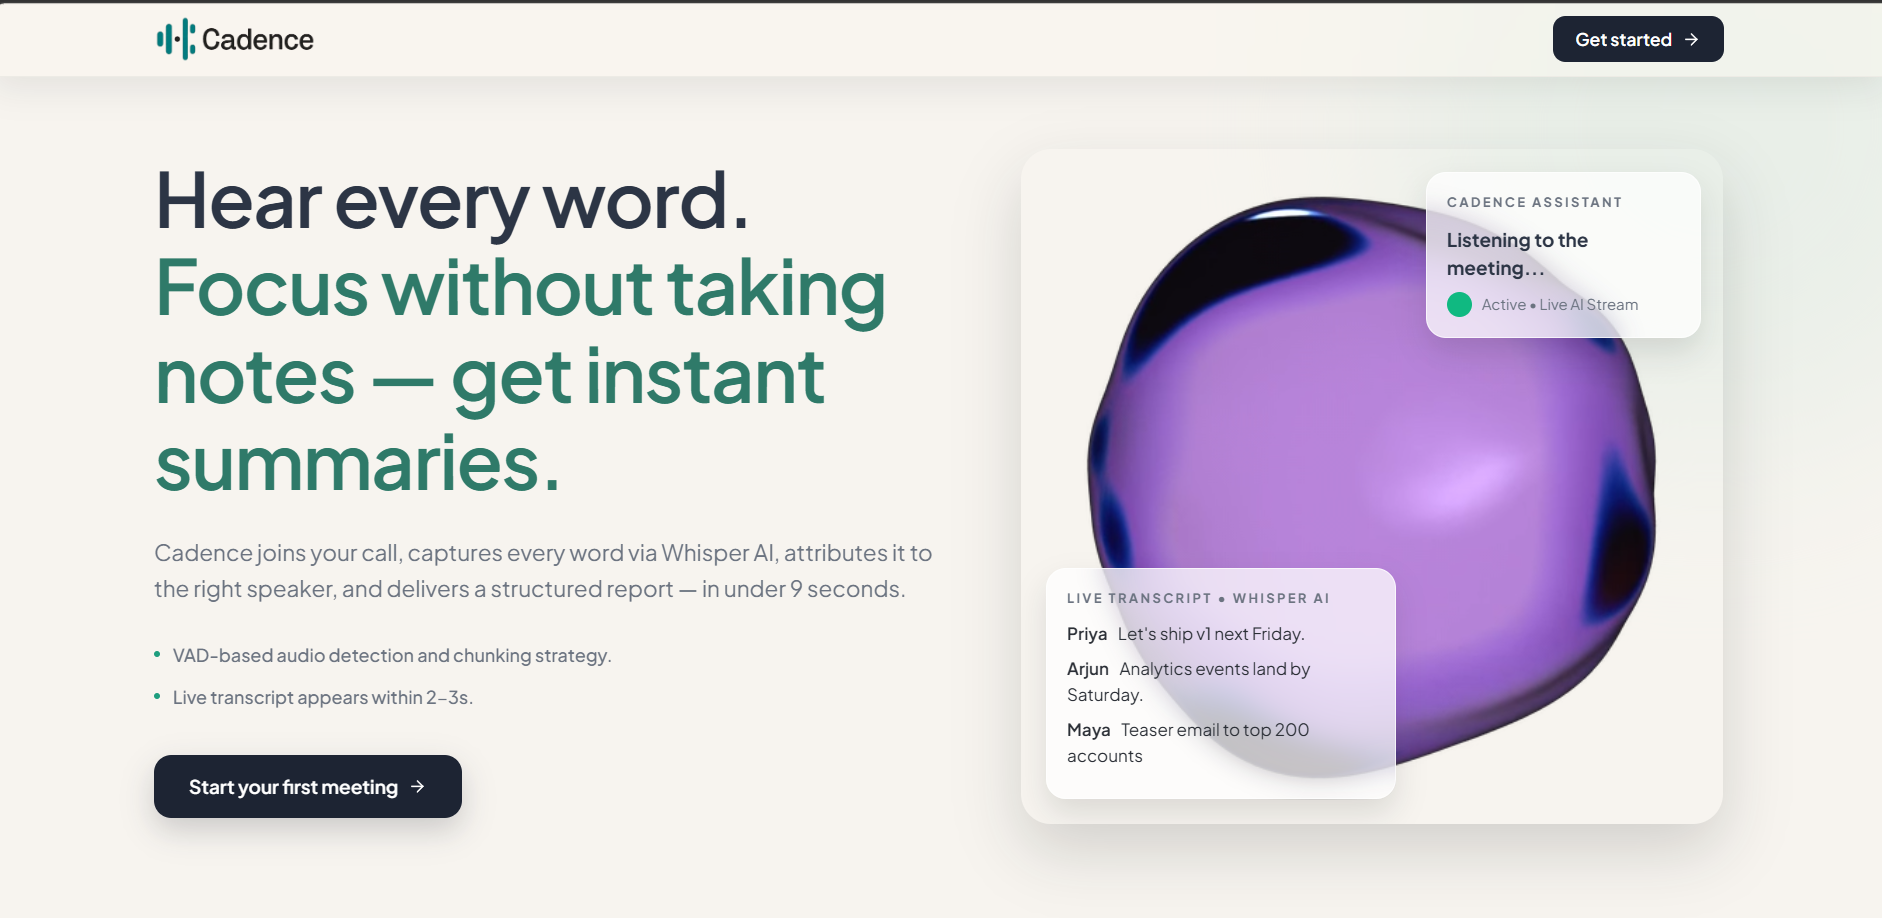
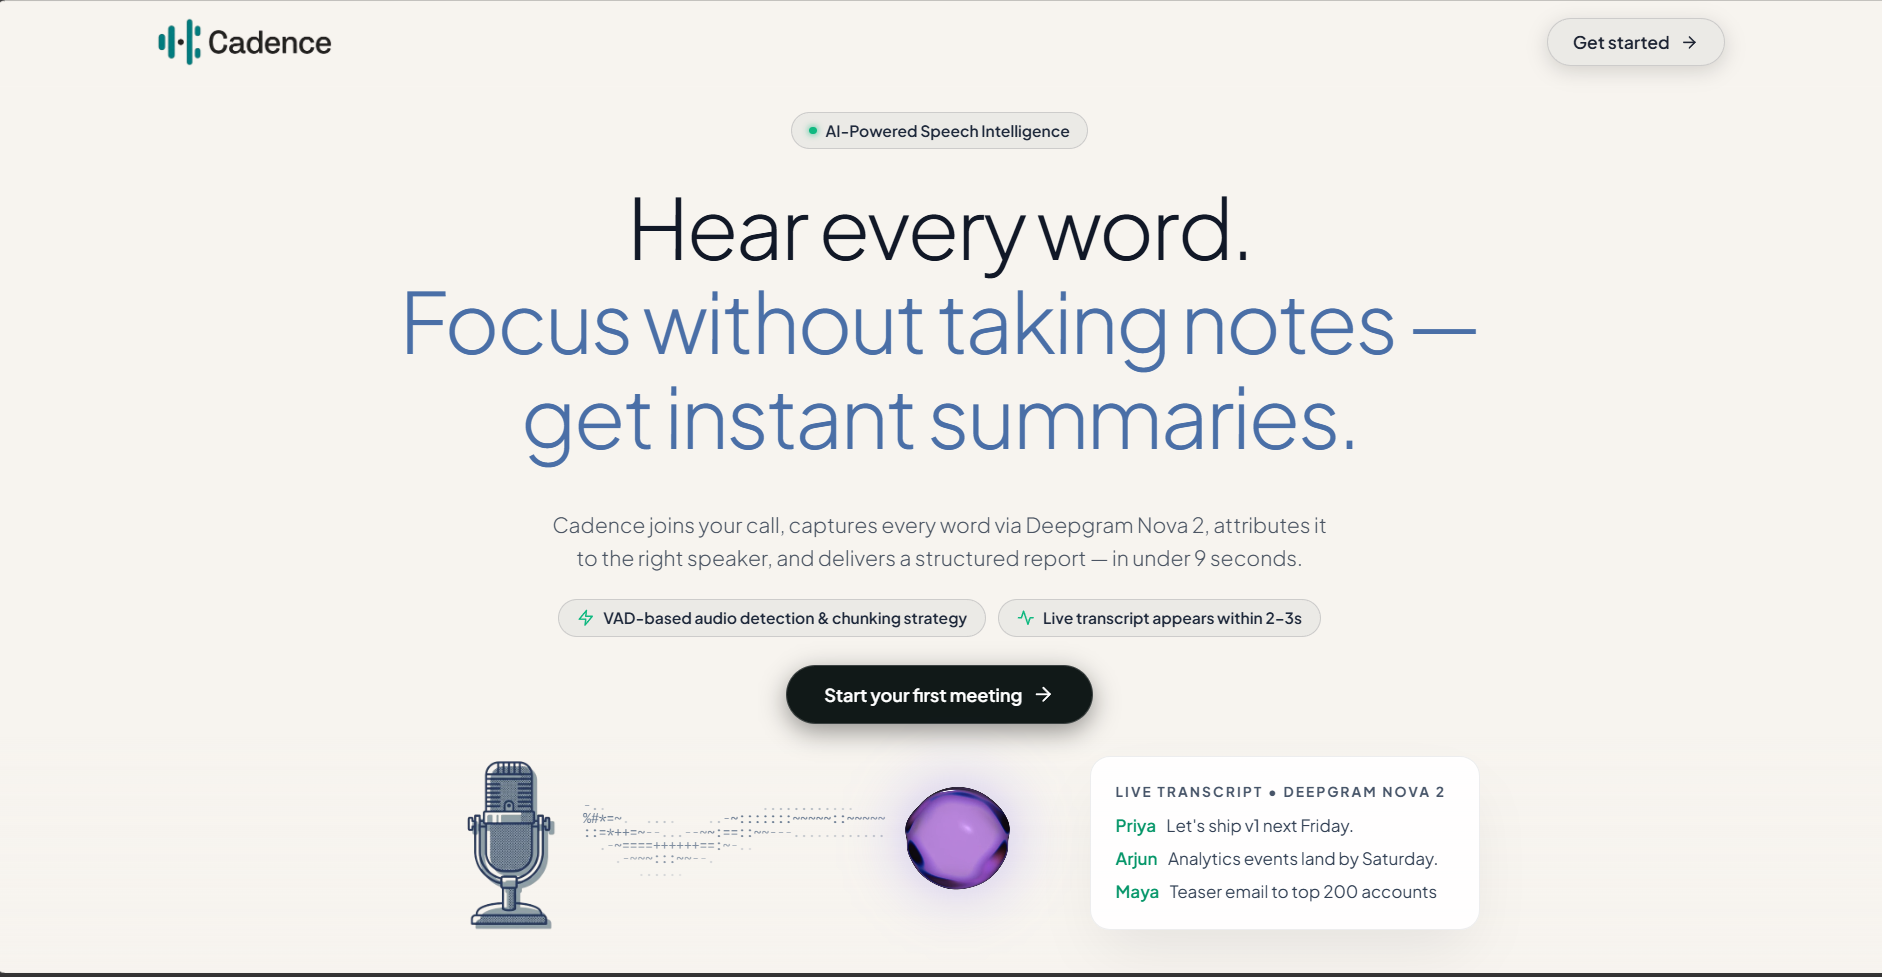
feat(ui): enhance portfolio metrics, navigation, and mobile responsiveness
- Increase metrics section size with larger red values and smaller beige labels
- Add smooth scroll from "LET'S TALK" button to contact form
- Standardize button fonts and sizes for better visual hierarchy
- Fix mobile viewport consistency (hero padding, icon sizes, image scaling)
- Add animated red underlines to section titles with one-time scroll animation
- Reduce gaps between metric elements for tighter visual alignment

diff --git a/landing_page/app/page.tsx b/landing_page/app/page.tsx
@@ -653,16 +653,16 @@ export default function Home() {
           <div className="absolute bottom-0 left-0 right-0 h-40 bg-gradient-to-t from-[#0a0a0a] to-transparent pointer-events-none z-10" />
 
           {/* Hero Content Container */}
-          <div className="w-full max-w-full mx-auto px-8 md:px-20 lg:px-28 grid grid-cols-1 md:grid-cols-12 gap-8 md:gap-24 items-center relative z-10 h-full">
+          <div className="w-full max-w-full mx-auto px-6 sm:px-8 md:px-20 lg:px-28 grid grid-cols-1 md:grid-cols-12 gap-8 md:gap-24 items-center relative z-10 h-full">
             {/* Left Column: Text Content */}
-            <div className="md:col-span-8 flex flex-col items-start text-left gap-6 w-full md:pl-10">
+            <div className="md:col-span-8 flex flex-col items-start text-left gap-6 w-full">
               {/* Greeting + Name */}
               <div className="flex flex-col gap-2 items-start select-none">
-                <span className="text-[18px] sm:text-[22px] md:text-[24px] text-zinc-400 font-sans font-medium tracking-widest uppercase">
+                <span className="text-[16px] sm:text-[20px] md:text-[24px] text-zinc-400 font-sans font-medium tracking-widest uppercase">
                   HI, I'M
                 </span>
                 <h1
-                  className="text-[38px] xs:text-[48px] sm:text-[68px] md:text-[80px] leading-tight text-[#D9D3C7] tracking-wider uppercase font-bold pr-4 md:pr-0"
+                  className="text-[36px] sm:text-[52px] md:text-[80px] leading-tight text-[#D9D3C7] tracking-wider uppercase font-bold"
                   style={{ fontFamily: '"BBH Bartle", "Bebas Neue", sans-serif' }}
                 >
                   Priyank
@@ -700,14 +700,14 @@ export default function Home() {
                 everything together.
               </p>
 
-              <div className="flex flex-row flex-wrap gap-4 mt-6 relative z-10 justify-start w-full">
+              <div className="flex flex-row flex-wrap gap-3 sm:gap-4 mt-4 sm:mt-6 relative z-10 justify-start w-full">
                 {/* GitHub */}
                 <a
                   href="https://github.com/Priyankm23"
                   target="_blank"
                   rel="noreferrer"
                   title="GitHub"
-                  className="w-14 h-14 border border-1px border-[#D9D3C7] bg-transparent text-[#D9D3C7] flex items-center justify-center transition-all duration-150 cursor-pointer shadow-[3px_3px_0px_0px_rgba(217,211,199,1)] hover:shadow-none hover:translate-x-[3px] hover:translate-y-[3px] hover:bg-[#D9D3C7] hover:text-[#1B1C1C]"
+                  className="w-12 h-12 sm:w-14 sm:h-14 border border-1px border-[#D9D3C7] bg-transparent text-[#D9D3C7] flex items-center justify-center transition-all duration-150 cursor-pointer shadow-[3px_3px_0px_0px_rgba(217,211,199,1)] hover:shadow-none hover:translate-x-[3px] hover:translate-y-[3px] hover:bg-[#D9D3C7] hover:text-[#1B1C1C]"
                 >
                   <svg viewBox="0 0 24 24" fill="currentColor" className="w-6 h-6">
                     <path d="M12 2C6.477 2 2 6.484 2 12.017c0 4.425 2.865 8.18 6.839 9.504.5.092.682-.217.682-.483 0-.237-.008-.868-.013-1.703-2.782.605-3.369-1.343-3.369-1.343-.454-1.158-1.11-1.466-1.11-1.466-.908-.62.069-.608.069-.608 1.003.07 1.531 1.032 1.531 1.032.892 1.53 2.341 1.088 2.91.832.092-.647.35-1.088.636-1.338-2.22-.253-4.555-1.113-4.555-4.951 0-1.093.39-1.988 1.029-2.688-.103-.253-.446-1.272.098-2.65 0 0 .84-.27 2.75 1.026A9.564 9.564 0 0112 6.844c.85.004 1.705.115 2.504.337 1.909-1.296 2.747-1.027 2.747-1.027.546 1.379.202 2.398.1 2.651.64.7 1.028 1.595 1.028 2.688 0 3.848-2.339 4.695-4.566 4.943.359.309.678.92.678 1.855 0 1.338-.012 2.419-.012 2.747 0 .268.18.58.688.482A10.019 10.019 0 0022 12.017C22 6.484 17.522 2 12 2z" />
@@ -719,7 +719,7 @@ export default function Home() {
                   target="_blank"
                   rel="noreferrer"
                   title="LinkedIn"
-                  className="w-14 h-14 border border-1px border-[#D9D3C7] bg-transparent text-[#D9D3C7] flex items-center justify-center transition-all duration-150 cursor-pointer shadow-[3px_3px_0px_0px_rgba(217,211,199,1)] hover:shadow-none hover:translate-x-[3px] hover:translate-y-[3px] hover:bg-[#D9D3C7] hover:text-[#1B1C1C]"
+                  className="w-12 h-12 sm:w-14 sm:h-14 border border-1px border-[#D9D3C7] bg-transparent text-[#D9D3C7] flex items-center justify-center transition-all duration-150 cursor-pointer shadow-[3px_3px_0px_0px_rgba(217,211,199,1)] hover:shadow-none hover:translate-x-[3px] hover:translate-y-[3px] hover:bg-[#D9D3C7] hover:text-[#1B1C1C]"
                 >
                   <svg viewBox="0 0 24 24" fill="currentColor" className="w-6 h-6">
                     <path d="M20.447 20.452h-3.554v-5.569c0-1.328-.027-3.037-1.852-3.037-1.853 0-2.136 1.445-2.136 2.939v5.667H9.351V9h3.414v1.561h.046c.477-.9 1.637-1.85 3.37-1.85 3.601 0 4.267 2.37 4.267 5.455v6.286zM5.337 7.433a2.062 2.062 0 01-2.063-2.065 2.064 2.064 0 112.063 2.065zm1.782 13.019H3.555V9h3.564v11.452zM22.225 0H1.771C.792 0 0 .774 0 1.729v20.542C0 23.227.792 24 1.771 24h20.451C23.2 24 24 23.227 24 22.271V1.729C24 .774 23.2 0 22.222 0h.003z" />
@@ -729,7 +729,7 @@ export default function Home() {
                 <a
                   href="mailto:priyankmoradiya41@gmail.com"
                   title="Email"
-                  className="w-14 h-14 border border-1px border-[#D9D3C7] bg-transparent text-[#D9D3C7] flex items-center justify-center transition-all duration-150 cursor-pointer shadow-[3px_3px_0px_0px_rgba(217,211,199,1)] hover:shadow-none hover:translate-x-[3px] hover:translate-y-[3px] hover:bg-[#D9D3C7] hover:text-[#1B1C1C]"
+                  className="w-12 h-12 sm:w-14 sm:h-14 border border-1px border-[#D9D3C7] bg-transparent text-[#D9D3C7] flex items-center justify-center transition-all duration-150 cursor-pointer shadow-[3px_3px_0px_0px_rgba(217,211,199,1)] hover:shadow-none hover:translate-x-[3px] hover:translate-y-[3px] hover:bg-[#D9D3C7] hover:text-[#1B1C1C]"
                 >
                   <svg viewBox="0 0 24 24" fill="none" stroke="currentColor" strokeWidth="2" className="w-6 h-6">
                     <rect x="2" y="4" width="20" height="16" rx="2" />
@@ -742,7 +742,7 @@ export default function Home() {
                   target="_blank"
                   rel="noreferrer"
                   title="Download Resume"
-                  className="h-14 px-5 border border-1px border-[#D9D3C7] bg-transparent text-[#b02600] flex items-center gap-2 font-mono-code font-extrabold text-[13px] sm:text-[14px] uppercase tracking-wider transition-all duration-150 cursor-pointer shadow-[3px_3px_0px_0px_rgba(217,211,199,1)] hover:shadow-none hover:translate-x-[3px] hover:translate-y-[3px] hover:bg-[#b02600] hover:text-white hover:border-[#b02600]"
+                  className="h-12 sm:h-14 px-4 sm:px-5 border border-1px border-[#D9D3C7] bg-transparent text-[#b02600] flex items-center gap-2 font-mono-code font-extrabold text-[12px] sm:text-[14px] uppercase tracking-wider transition-all duration-150 cursor-pointer shadow-[3px_3px_0px_0px_rgba(217,211,199,1)] hover:shadow-none hover:translate-x-[3px] hover:translate-y-[3px] hover:bg-[#b02600] hover:text-white hover:border-[#b02600]"
                 >
                   <svg viewBox="0 0 24 24" fill="none" stroke="currentColor" strokeWidth="2.5" className="w-5 h-5">
                     <path d="M21 15v4a2 2 0 0 1-2 2H5a2 2 0 0 1-2-2v-4" />
@@ -756,7 +756,7 @@ export default function Home() {
 
             {/* Right Column: Hero Portrait Image */}
             <div className="md:col-span-4 flex justify-center md:justify-center items-center relative z-10 w-full mt-6 md:mt-0 animate-reveal">
-              <div className="relative w-full max-w-[300px] sm:max-w-[340px] md:max-w-[390px] lg:max-w-[440px] aspect-[4/5] overflow-hidden shadow-[5px_5px_0px_0px_rgba(217,211,199,0.15)] bg-[#0a0a0a] md:-translate-x-6">
+              <div className="relative w-full max-w-[260px] sm:max-w-[300px] md:max-w-[390px] lg:max-w-[440px] aspect-[4/5] overflow-hidden shadow-[5px_5px_0px_0px_rgba(217,211,199,0.15)] bg-[#0a0a0a] md:-translate-x-6">
                 <img
                   src="/full_portrait1.png"
                   alt="Priyank Moradiya - Hero Portrait"
@@ -796,7 +796,16 @@ export default function Home() {
 
           <div className="max-w-7xl mx-auto w-full relative z-10 mt-6">
             <h2 className="font-sans text-3xl sm:text-4xl md:text-5xl lg:text-[54px] !leading-[110%] font-bold text-zinc-100 uppercase tracking-wide relative z-10">
-              FEATURED BUILDS
+              <span className="relative inline-block">
+                FEATURED BUILDS
+                <motion.span
+                  className="absolute left-[-4px] -bottom-1 h-[3px] bg-[#b02600]"
+                  initial={{ width: 0 }}
+                  whileInView={{ width: "calc(100% + 8px)" }}
+                  viewport={{ once: true }}
+                  transition={{ duration: 0.8, ease: [0.25, 0.46, 0.45, 0.94], delay: 0.2 }}
+                />
+              </span>
             </h2>
             <div className="h-px w-full bg-[#222222] my-4 relative z-10"></div>
             <p className="font-sans text-[#D9D3C7]/80 text-sm sm:text-base leading-relaxed max-w-xl mb-12 relative z-10">
@@ -835,8 +844,17 @@ export default function Home() {
         >
           <div className="max-w-7xl mx-auto w-full relative z-10">
             <div className="relative z-10 mt-10">
-              <h2 className="font-sans text-3xl sm:text-4xl md:text-5xl lg:text-[54px] !leading-[110%] font-bold text-zinc-100 uppercase tracking-wide">
-                TOOLS I TRUST
+              <h2 className="font-sans text-3xl sm:text-4xl md:text-5xl lg:text-[54px] !leading-[110%] font-bold text-zinc-100 uppercase tracking-wide relative">
+                <span className="relative inline-block">
+                  TOOLS I TRUST
+                  <motion.span
+                    className="absolute left-[-4px] -bottom-1 h-[3px] bg-[#b02600]"
+                    initial={{ width: 0 }}
+                    whileInView={{ width: "calc(100% + 8px)" }}
+                    viewport={{ once: true }}
+                    transition={{ duration: 0.8, ease: [0.25, 0.46, 0.45, 0.94], delay: 0.2 }}
+                  />
+                </span>
               </h2>
               <div className="h-px w-full bg-[#222222] my-4"></div>
               <p className="font-sans text-[#D9D3C7]/80 text-sm sm:text-base leading-relaxed max-w-xl mb-12">
@@ -930,9 +948,18 @@ export default function Home() {
             <div className="relative z-10 flex flex-col md:grid md:grid-cols-12 gap-gutter mt-16">
               {/* Heading Area */}
               <div className="scroll-reveal-left md:col-span-3 mb-8 md:mb-0">
-                <h2 className="font-sans text-3xl sm:text-4xl md:text-5xl lg:text-[54px] !leading-[110%] font-bold text-zinc-100 uppercase tracking-wide flex items-center drop-shadow-sm">
-                  COMMIT HISTORY
-                  <span className="text-primary ml-1 blink">_</span>
+                <h2 className="font-sans text-3xl sm:text-4xl md:text-5xl lg:text-[54px] !leading-[110%] font-bold text-zinc-100 uppercase tracking-wide flex items-center drop-shadow-sm relative">
+                  <span className="relative inline-block">
+                    COMMIT HISTORY
+                    <span className="text-primary ml-1 blink">_</span>
+                    <motion.span
+                      className="absolute left-[-4px] -bottom-1 h-[3px] bg-[#b02600]"
+                      initial={{ width: 0 }}
+                      whileInView={{ width: "calc(100% + 8px)" }}
+                      viewport={{ once: true }}
+                      transition={{ duration: 0.8, ease: [0.25, 0.46, 0.45, 0.94], delay: 0.2 }}
+                    />
+                  </span>
                 </h2>
                 <div className="h-px w-full bg-white/30 my-4"></div>
                 <p className="font-sans text-[#D9D3C7]/80 text-sm sm:text-base leading-relaxed max-w-sm">
@@ -1105,8 +1132,17 @@ export default function Home() {
             <div className="grid grid-cols-1 md:grid-cols-12 gap-gutter mt-16 relative z-10">
               {/* Heading */}
               <div className="md:col-span-4 mb-10 md:mb-0 relative md:sticky md:top-24 md:h-fit">
-                <h2 className="font-sans text-3xl sm:text-4xl md:text-5xl lg:text-[54px] !leading-[110%] font-bold text-zinc-100 uppercase tracking-wide">
-                  WHERE I'VE WORKED
+                <h2 className="font-sans text-3xl sm:text-4xl md:text-5xl lg:text-[54px] !leading-[110%] font-bold text-zinc-100 uppercase tracking-wide relative">
+                  <span className="relative inline-block">
+                    WHERE I'VE WORKED
+                    <motion.span
+                      className="absolute left-[-4px] -bottom-1 h-[3px] bg-[#b02600]"
+                      initial={{ width: 0 }}
+                      whileInView={{ width: "calc(100% + 8px)" }}
+                      viewport={{ once: true }}
+                      transition={{ duration: 0.8, ease: [0.25, 0.46, 0.45, 0.94], delay: 0.2 }}
+                    />
+                  </span>
                 </h2>
                 <div className="h-px w-full bg-[#222222] my-4"></div>
                 <p className="font-sans text-[#D9D3C7]/80 text-sm sm:text-base leading-relaxed max-w-sm">
@@ -1291,8 +1327,17 @@ export default function Home() {
               
               {/* Left Column: Heading & Context */}
               <div className="md:col-span-5 mb-10 md:mb-0 flex flex-col justify-start">
-                <h2 className="font-sans text-3xl sm:text-4xl md:text-5xl lg:text-[54px] !leading-[110%] font-bold text-zinc-100 uppercase tracking-wide">
-                  LET'S CONNECT
+                <h2 className="font-sans text-3xl sm:text-4xl md:text-5xl lg:text-[54px] !leading-[110%] font-bold text-zinc-100 uppercase tracking-wide relative">
+                  <span className="relative inline-block">
+                    LET'S CONNECT
+                    <motion.span
+                      className="absolute left-[-4px] -bottom-1 h-[3px] bg-[#b02600]"
+                      initial={{ width: 0 }}
+                      whileInView={{ width: "calc(100% + 8px)" }}
+                      viewport={{ once: true }}
+                      transition={{ duration: 0.8, ease: [0.25, 0.46, 0.45, 0.94], delay: 0.2 }}
+                    />
+                  </span>
                 </h2>
                 <div className="h-px w-full bg-[#222222] my-4"></div>
                 <p className="font-sans text-[#D9D3C7]/80 text-sm sm:text-base leading-relaxed max-w-sm mb-4">
@@ -1443,7 +1488,7 @@ export default function Home() {
                           <button
                             type="submit"
                             disabled={isSubmitting}
-                            className="inline-flex items-center gap-2 px-6 py-3 border border-[#D9D3C7] bg-[#D9D3C7] text-[#0a0a0a] font-bold tracking-wider hover:bg-transparent hover:text-[#D9D3C7] transition-all uppercase cursor-pointer rounded-none shadow-[3px_3px_0px_0px_rgba(217,211,199,0.15)] hover:shadow-none hover:translate-x-[3px] hover:translate-y-[3px] disabled:opacity-50 disabled:cursor-not-allowed"
+                            className="inline-flex items-center gap-2 px-4 py-2 border border-[#D9D3C7] bg-[#D9D3C7] text-[#0a0a0a] font-sans font-bold tracking-wider hover:bg-transparent hover:text-[#D9D3C7] transition-all uppercase cursor-pointer rounded-none shadow-[3px_3px_0px_0px_rgba(217,211,199,0.15)] hover:shadow-none hover:translate-x-[3px] hover:translate-y-[3px] disabled:opacity-50 disabled:cursor-not-allowed text-xs"
                           >
                             {isSubmitting ? "SENDING..." : "SEND MESSAGE"}
                           </button>

diff --git a/landing_page/components/ui/about-section.tsx b/landing_page/components/ui/about-section.tsx
@@ -140,7 +140,7 @@ export default function AboutSection3({
             </TimelineContent>
 
             {/* GPA, Portfolio visits and College name/Relocation below the video */}
-            <div className="flex flex-col gap-2 py-4 border-b border-[#222]/60 font-sans text-sm">
+            <div className="flex flex-col gap-3 py-5 border-b border-[#222]/60 font-sans text-base">
               <TimelineContent
                 as="div"
                 animationNum={3}
@@ -149,18 +149,18 @@ export default function AboutSection3({
                 className="flex flex-wrap items-center gap-x-4 gap-y-2 justify-between"
               >
                 <div className="flex items-center gap-2">
-                  <span className="text-primary font-bold">9.48</span>
-                  <span className="text-[#D9D3C7]">CGPA (B.Tech IT)</span>
+                  <span className="text-primary font-bold text-xl sm:text-2xl">9.48</span>
+                  <span className="text-[#D9D3C7] text-sm sm:text-base">CGPA (B.Tech IT)</span>
                 </div>
                 <div className="flex items-center gap-2">
-                  <span className="text-primary font-bold">
+                  <span className="text-primary font-bold text-xl sm:text-2xl">
                     {visitorCount !== null ? `${visitorCount}` : "1,200+"}
                   </span>
-                  <span className="text-[#D9D3C7]">portfolio visits</span>
+                  <span className="text-[#D9D3C7] text-sm sm:text-base">portfolio visits</span>
                 </div>
               </TimelineContent>
 
-              <div className="flex flex-wrap items-center gap-x-4 gap-y-1 justify-between mt-1 text-xs sm:text-sm">
+              <div className="flex flex-wrap items-center gap-x-4 gap-y-2 justify-between mt-2 text-sm sm:text-base">
                 <TimelineContent
                   as="div"
                   animationNum={3}
@@ -168,8 +168,8 @@ export default function AboutSection3({
                   customVariants={revealVariants}
                   className="flex items-center gap-2"
                 >
-                  <span className="text-primary font-semibold">GCET</span>
-                  <span className="text-[#D9D3C7] uppercase">Anand, Gujarat</span>
+                  <span className="text-primary font-bold text-lg sm:text-xl">GCET</span>
+                  <span className="text-[#D9D3C7] text-sm sm:text-base">Anand, Gujarat</span>
                 </TimelineContent>
 
                 <TimelineContent
@@ -179,8 +179,8 @@ export default function AboutSection3({
                   customVariants={revealVariants}
                   className="flex items-center gap-2"
                 >
-                  <span className="text-primary font-bold">OPEN</span>
-                  <span className="text-[#D9D3C7]">to remote / relocation</span>
+                  <span className="text-primary font-bold text-lg sm:text-xl">OPEN</span>
+                  <span className="text-[#D9D3C7] text-sm sm:text-base">to remote / relocation</span>
                 </TimelineContent>
               </div>
             </div>
@@ -216,17 +216,18 @@ export default function AboutSection3({
                 className="text-[#D9D3C7] text-sm md:text-base leading-relaxed"
               >
                 <p className="font-medium">
-                  Ready to build reliable, optimized backend architectures for
-                  your services?
+                  Looking for opportunities to contribute to backend engineering teams and grow as a developer.
                 </p>
               </TimelineContent>
 
               <TimelineContent
-                as="a"
+                as="button"
                 animationNum={6}
                 timelineRef={heroRef}
                 customVariants={revealVariants}
-                href="mailto:priyankmoradiya41@gmail.com"
+                onClick={() => {
+                  document.getElementById('play')?.scrollIntoView({ behavior: 'smooth' });
+                }}
                 className="bg-neutral-900 hover:bg-[#b02600] border border-neutral-800 hover:border-[#b02600] inline-flex items-center gap-2 hover:gap-4 transition-all duration-300 ease-in-out text-white px-5 py-3 rounded-lg cursor-pointer font-semibold shadow-md uppercase tracking-wider text-xs md:text-sm mt-2"
               >
                 LET'S TALK <ArrowRight className="w-4 h-4" />
